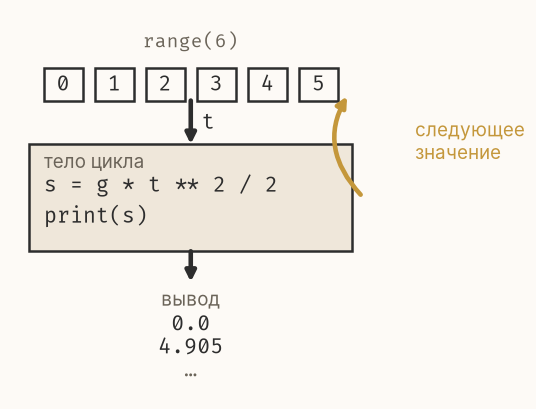
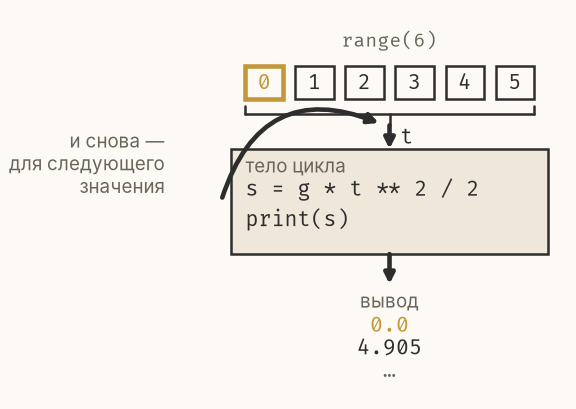
Preview: PR #63 (c3ccf7063ef7be56e800ec2d733f73181d345b77)

diff --git a/modules/module-0/python-intro/index.html b/modules/module-0/python-intro/index.html
@@ -1643,7 +1643,7 @@
 <p>Шесть строк вывода получились из трёх строк кода. А если вместо шести секунд понадобится сто — поменяете одну цифру в скобках, и Python посчитает сто значений. Вот ради этого и существуют циклы.</p>
 <!-- fig-anchor: figure.cs.python.for_loop_trace -->
 
-<p><img alt="Ряд значений от 0 до 5 из range(6); стрелка ведёт от ряда к единственному блоку «тело цикла» с двумя строками кода; из блока стрелка вниз к строкам вывода и стрелка возврата вверх за следующим значением" src="/assets/images/cs.python_intro/generated/for_loop_trace.png" /></p>
+<p><img alt="Ряд значений от 0 до 5 из range(6), охваченный снизу скобой; от скобы стрелка вниз к единственному блоку «тело цикла» с двумя строками кода; из блока стрелка вниз к строкам вывода, а слева — стрелка возврата от тела обратно к скобе; первое значение ряда и первая строка вывода выделены цветом" src="/assets/images/cs.python_intro/generated/for_loop_trace.png" /></p>
 <p><em>Цикл for: тело написано один раз и выполняется для каждого значения последовательности</em></p>
 <hr />
 <!-- fragment:012 -->
